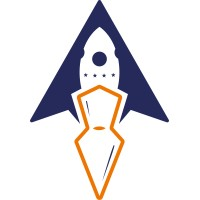
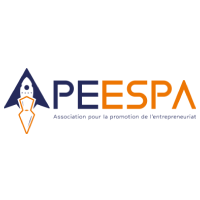
changement de site enprt

Changed region(s): [[0.0, 0.0, 0.99, 1.0], [0.45, 0.24, 0.54, 0.36]]

diff --git a/Contacte/Contacte.css b/Contacte/Contacte.css
@@ -586,8 +586,10 @@ section{
         border-radius: 20px;
     }
     .choix2{
-        background-color: #0000000a;
         border-radius: 20px;
+    }
+    .choix2 img{
+        border-radius: 10px;
     }
 .tchoix{
    text-align: center;
@@ -748,6 +750,12 @@ padding: 40px 100px;
     font-weight: 700;
 }
 @media (max-width:500px){
+    .choix2 img{
+        border-radius: 5px;
+        width: 250px;
+        margin: 0px;
+        padding: 0px;
+    }
    
     .foot1 span{
         font-size: 15px;

diff --git a/Contacte/Contacte.html b/Contacte/Contacte.html
@@ -63,7 +63,7 @@
 
   <div class="choix">
     <div class="choix2">
-      <img src="../IMG/choixx.png" alt="sary" width="240px">
+      <img src="../IMG/choixx.jpg" alt="sary" width="430px">
     </div>
     <div class="choixp">
       <div class="tchoix"> <h1>Nous sommes là pour vous aider !</h1></div>
